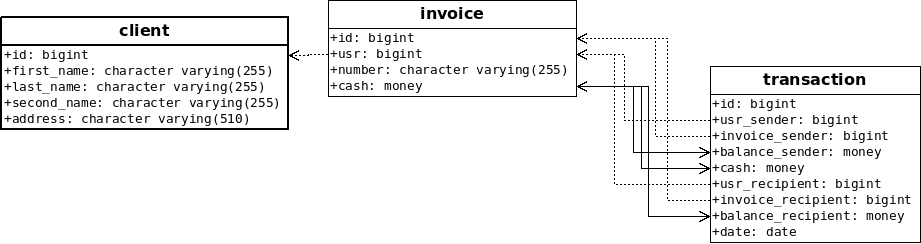
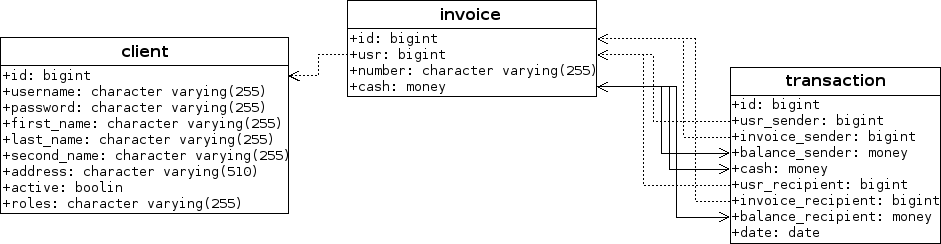
go code to laptop

Changed region(s): [[0.0, 0.0, 0.7296, 0.8893], [0.6688, 0.2582, 1.0, 1.0], [0.456, 0.0287, 0.5472, 0.0861]]

diff --git a/src/main/resources/templates/index.html b/src/main/resources/templates/index.html
@@ -1,5 +1,7 @@
 <!DOCTYPE html>
-<html lang="en" xmlns:th="http://www.thymleaf.org">
+<html lang="en" xmlns="http://www.w3.org/1999/xhtml" xmlns:th="http://www.thymleaf.org"
+      xmlns:sec="http://www.thymleaf.org/thymleaf-extras-springsecurity3">
+
 <head>
     <meta charset="UTF-8">
     <title>Bank-manager</title>

diff --git a/src/main/java/com/bank/bankmanager/domain/User.java b/src/main/java/com/bank/bankmanager/domain/User.java
@@ -1,0 +1,158 @@
+package com.bank.bankmanager.domain;
+
+import org.springframework.security.core.GrantedAuthority;
+import org.springframework.security.core.userdetails.UserDetails;
+
+import javax.persistence.*;
+import javax.validation.constraints.NotBlank;
+import java.util.Collection;
+import java.util.Set;
+
+@Entity
+@Table(name = "usr")
+public class User implements UserDetails {
+    @Id
+    @GeneratedValue(strategy = GenerationType.AUTO)
+    private Long id;
+    @NotBlank(message = "Username cannot be empty!")
+    private String username;
+    @NotBlank(message = "Password cannot be empty!")
+    private String password;
+    @NotBlank(message = "First name cannot be empty!")
+    private String first_name;
+    @NotBlank(message = "Last name cannot be empty!")
+    private String last_name;
+    @NotBlank(message = "Second name cannot be empty!")
+    private String second_name;
+    @NotBlank(message = "Address cannot be empty!")
+    private String address;
+    private boolean active;
+
+    @ElementCollection(targetClass = Role.class, fetch = FetchType.EAGER)
+    @CollectionTable(name = "user_role", joinColumns = @JoinColumn(name = "user_id"))
+    @Enumerated(EnumType.STRING)
+    private Set<Role> roles;
+
+    @OneToMany(mappedBy = "client", cascade = CascadeType.ALL, fetch = FetchType.EAGER)
+    private Set<Invoice> invoices;
+
+
+    // GETTER & SETTER - UserDetails
+    @Override
+    public Collection<? extends GrantedAuthority> getAuthorities() {
+        return null;
+    }
+
+    @Override
+    public boolean isAccountNonExpired() {
+        return false;
+    }
+
+    @Override
+    public boolean isAccountNonLocked() {
+        return false;
+    }
+
+    @Override
+    public boolean isCredentialsNonExpired() {
+        return false;
+    }
+
+    @Override
+    public boolean isEnabled() {
+        return false;
+    }
+
+    // GETTER & SETTER - Object
+    @Override
+    public int hashCode() {
+        return super.hashCode();
+    }
+
+    @Override
+    public boolean equals(Object obj) {
+        return super.equals(obj);
+    }
+
+    public Long getId() {
+        return id;
+    }
+
+    public void setId(Long id) {
+        this.id = id;
+    }
+
+    @Override
+    public String getUsername() {
+        return username;
+    }
+
+    public void setUsername(String username) {
+        this.username = username;
+    }
+
+    @Override
+    public String getPassword() {
+        return password;
+    }
+
+    public void setPassword(String password) {
+        this.password = password;
+    }
+
+    public String getFirst_name() {
+        return first_name;
+    }
+
+    public void setFirst_name(String first_name) {
+        this.first_name = first_name;
+    }
+
+    public String getLast_name() {
+        return last_name;
+    }
+
+    public void setLast_name(String last_name) {
+        this.last_name = last_name;
+    }
+
+    public String getSecond_name() {
+        return second_name;
+    }
+
+    public void setSecond_name(String second_name) {
+        this.second_name = second_name;
+    }
+
+    public String getAddress() {
+        return address;
+    }
+
+    public void setAddress(String address) {
+        this.address = address;
+    }
+
+    public boolean isActive() {
+        return active;
+    }
+
+    public void setActive(boolean active) {
+        this.active = active;
+    }
+
+    public Set<Role> getRoles() {
+        return roles;
+    }
+
+    public void setRoles(Set<Role> roles) {
+        this.roles = roles;
+    }
+
+    public Set<Invoice> getInvoices() {
+        return invoices;
+    }
+
+    public void setInvoices(Set<Invoice> invoices) {
+        this.invoices = invoices;
+    }
+}

diff --git a/src/main/java/com/bank/bankmanager/domain/Invoice.java b/src/main/java/com/bank/bankmanager/domain/Invoice.java
@@ -1,0 +1,31 @@
+package com.bank.bankmanager.domain;
+
+import org.hibernate.validator.constraints.Length;
+
+import javax.persistence.*;
+import javax.validation.constraints.DecimalMin;
+import javax.validation.constraints.Digits;
+import javax.validation.constraints.NotBlank;
+import java.math.BigDecimal;
+
+@Entity
+public class Invoice {
+    @Id
+    @GeneratedValue(strategy = GenerationType.AUTO)
+    private Long id;
+
+    @ManyToOne(fetch = FetchType.EAGER)
+    @JoinColumn(name = "user_id")
+    private User usr;
+
+    @NotBlank(message = "Invoice number cannot be empty!")
+    @Length(max = 30, message = "Invoice number to long (more than 30)")
+    private String number;
+
+    @DecimalMin(value = "0", inclusive = false)
+    @Digits(integer = 1000000000, fraction = 2)
+    private BigDecimal cash;
+
+
+
+}

diff --git a/src/main/java/com/bank/bankmanager/domain/Transaction.java b/src/main/java/com/bank/bankmanager/domain/Transaction.java
@@ -1,0 +1,15 @@
+package com.bank.bankmanager.domain;
+
+import javax.persistence.Entity;
+import javax.persistence.GeneratedValue;
+import javax.persistence.GenerationType;
+import javax.persistence.Id;
+
+@Entity
+public class Transaction {
+    @Id
+    @GeneratedValue(strategy = GenerationType.AUTO)
+    private Long id;
+
+
+}

diff --git a/src/main/java/com/bank/bankmanager/domain/Role.java b/src/main/java/com/bank/bankmanager/domain/Role.java
@@ -1,0 +1,12 @@
+package com.bank.bankmanager.domain;
+
+import org.springframework.security.core.GrantedAuthority;
+
+public enum Role implements GrantedAuthority {
+    CLIENT, USER, ADMIN;
+
+    @Override
+    public String getAuthority() {
+        return name();
+    }
+}

diff --git a/src/main/java/com/bank/bankmanager/config/MvcConfig.java b/src/main/java/com/bank/bankmanager/config/MvcConfig.java
@@ -1,0 +1,9 @@
+package com.bank.bankmanager.config;
+
+import org.springframework.context.annotation.Configuration;
+import org.springframework.web.servlet.config.annotation.WebMvcConfigurer;
+
+@Configuration
+public class MvcConfig implements WebMvcConfigurer {
+
+}

diff --git a/src/main/java/com/bank/bankmanager/repos/InvoiceRepo.java b/src/main/java/com/bank/bankmanager/repos/InvoiceRepo.java
@@ -1,0 +1,7 @@
+package com.bank.bankmanager.repos;
+
+import com.bank.bankmanager.domain.Invoice;
+import org.springframework.data.jpa.repository.JpaRepository;
+
+public interface InvoiceRepo extends JpaRepository<Invoice, Long> {
+}

diff --git a/src/main/java/com/bank/bankmanager/repos/UserRepo.java b/src/main/java/com/bank/bankmanager/repos/UserRepo.java
@@ -1,0 +1,7 @@
+package com.bank.bankmanager.repos;
+
+import com.bank.bankmanager.domain.User;
+import org.springframework.data.jpa.repository.JpaRepository;
+
+public interface UserRepo extends JpaRepository<User, Long> {
+}

diff --git a/src/main/java/com/bank/bankmanager/controller/MainController.java b/src/main/java/com/bank/bankmanager/controller/MainController.java
@@ -13,5 +13,4 @@ public class MainController {
         model.addAttribute("user", "Folk-Lore");
         return "index";
     }
-
 }
